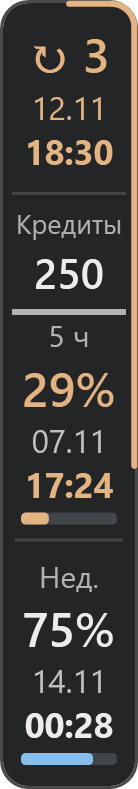
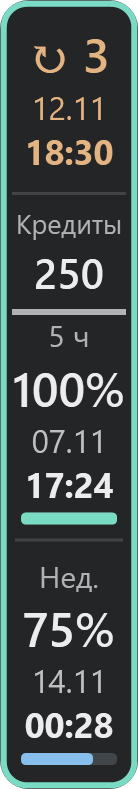
Show 5%, 0% and 100% quota examples in the documentation
Render the full reset, credit and combined examples with varied remaining quota, using the application's critical tone for values at or below 10%. Keep the renderer reproducible and update only those three PNGs.

Validation: all documentation previews rendered successfully; the three changed images were inspected for their exact percentages, colours and fit.

Changed region(s): [[0.0, 0.0, 1.0, 1.0], [0.1449, 0.5779, 0.8406, 0.6692], [0.087, 0.4563, 0.8986, 0.5171]]

diff --git a/tools/render-previews.cs b/tools/render-previews.cs
@@ -20,7 +20,7 @@ class DocumentationPreviews {
   static void Save(BitmapSource image,string file){var encoder=new PngBitmapEncoder();encoder.Frames.Add(BitmapFrame.Create(image));using(var output=File.Create(file))encoder.Save(output);}
   static BitmapSource Render(Visual visual,double width,double height,int scale){var image=new RenderTargetBitmap((int)(width*scale),(int)(height*scale),96*scale,96*scale,PixelFormats.Pbgra32);image.Render(visual);return image;}
   static BitmapSource RenderElement(FrameworkElement visual,double width,double height){visual.Measure(new Size(width,height));visual.Arrange(new Rect(0,0,width,height));visual.UpdateLayout();return Render(visual,width,height,3);}
-  static object Row(string label,int value,string date,string time){return new Dictionary<string,object>{{"period",label},{"value",value+"%"},{"remaining",value},{"date",date},{"time",time},{"tone",value<=30?"warning":"normal"},{"marker",""}};}
+  static object Row(string label,int value,string date,string time){return new Dictionary<string,object>{{"period",label},{"value",value+"%"},{"remaining",value},{"date",date},{"time",time},{"tone",value<=10?"critical":value<=30?"warning":"normal"},{"marker",""}};}
   static void Text(DrawingContext dc,string value,double x,double y,double size,Brush color,bool bold=false){var text=new FormattedText(value,CultureInfo.InvariantCulture,FlowDirection.LeftToRight,new Typeface(new FontFamily("Segoe UI"),FontStyles.Normal,bold?FontWeights.SemiBold:FontWeights.Normal,FontStretches.Normal),size,color,1);dc.DrawText(text,new Point(x,y));}
   static BitmapSource Context(BitmapSource panel,bool light){
     var visual=new DrawingVisual();using(var dc=visual.RenderOpen()){
@@ -62,7 +62,8 @@ class DocumentationPreviews {
           Call(window,"StopTracking");
           var resetData=new Dictionary<string,object>{{"availableCount",3},{"date","12.11.2026"},{"time","18:30"},{"daysRemaining",5},{"tone","warning"},{"stale",false}};
           var creditData=new Dictionary<string,object>{{"balance","250"},{"display","250"},{"unlimited",false},{"hasCredits",true},{"tone","normal"},{"stale",false}};
-          Call(window,"Apply",new Dictionary<string,object>{{"rows",new object[]{Row("5 ч",29,"07.11","17:24"),Row("Нед.",75,"14.11","00:28")}},{"resets",resetData},{"credits",creditData}});Call(window,"SelectMode",mode);Call(window,"SelectFullProgress",indicator);
+          int shortRemaining=key=="resets-full-both-dark"?5:key=="credits-full-both-dark"?0:key=="both-full-both-dark"?100:29;
+          Call(window,"Apply",new Dictionary<string,object>{{"rows",new object[]{Row("5 ч",shortRemaining,"07.11","17:24"),Row("Нед.",75,"14.11","00:28")}},{"resets",resetData},{"credits",creditData}});Call(window,"SelectMode",mode);Call(window,"SelectFullProgress",indicator);
           var image=RenderElement(Field<Grid>(window,"surface"),46,Layout.HeightForMode(mode,resets,credits));
           if(selected){Save(image,Path.Combine(output,"panels",key+".png"));previews++;}
           if(legacy){Save(image,Path.Combine(output,(mode=="ultra"?"ultracompact":mode)+"-"+theme+".png"));if(mode=="full")full=image;}
